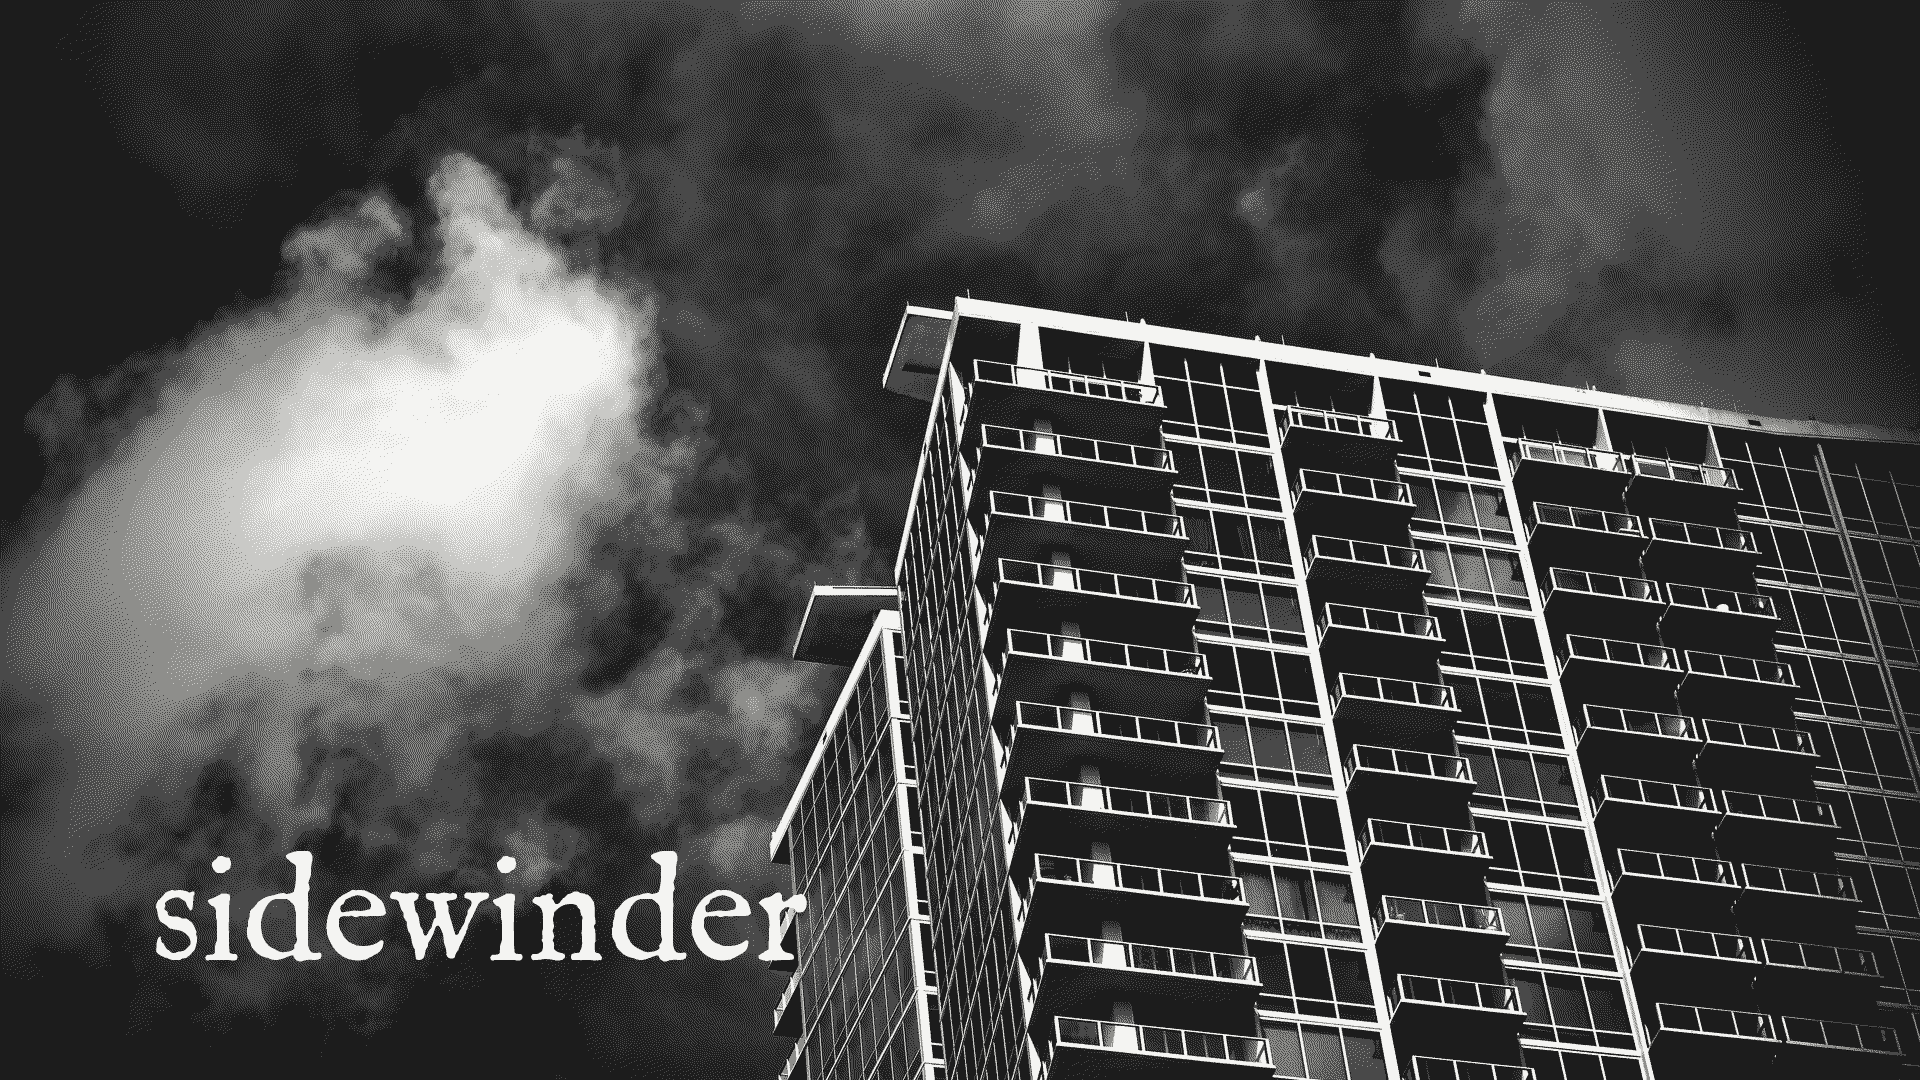
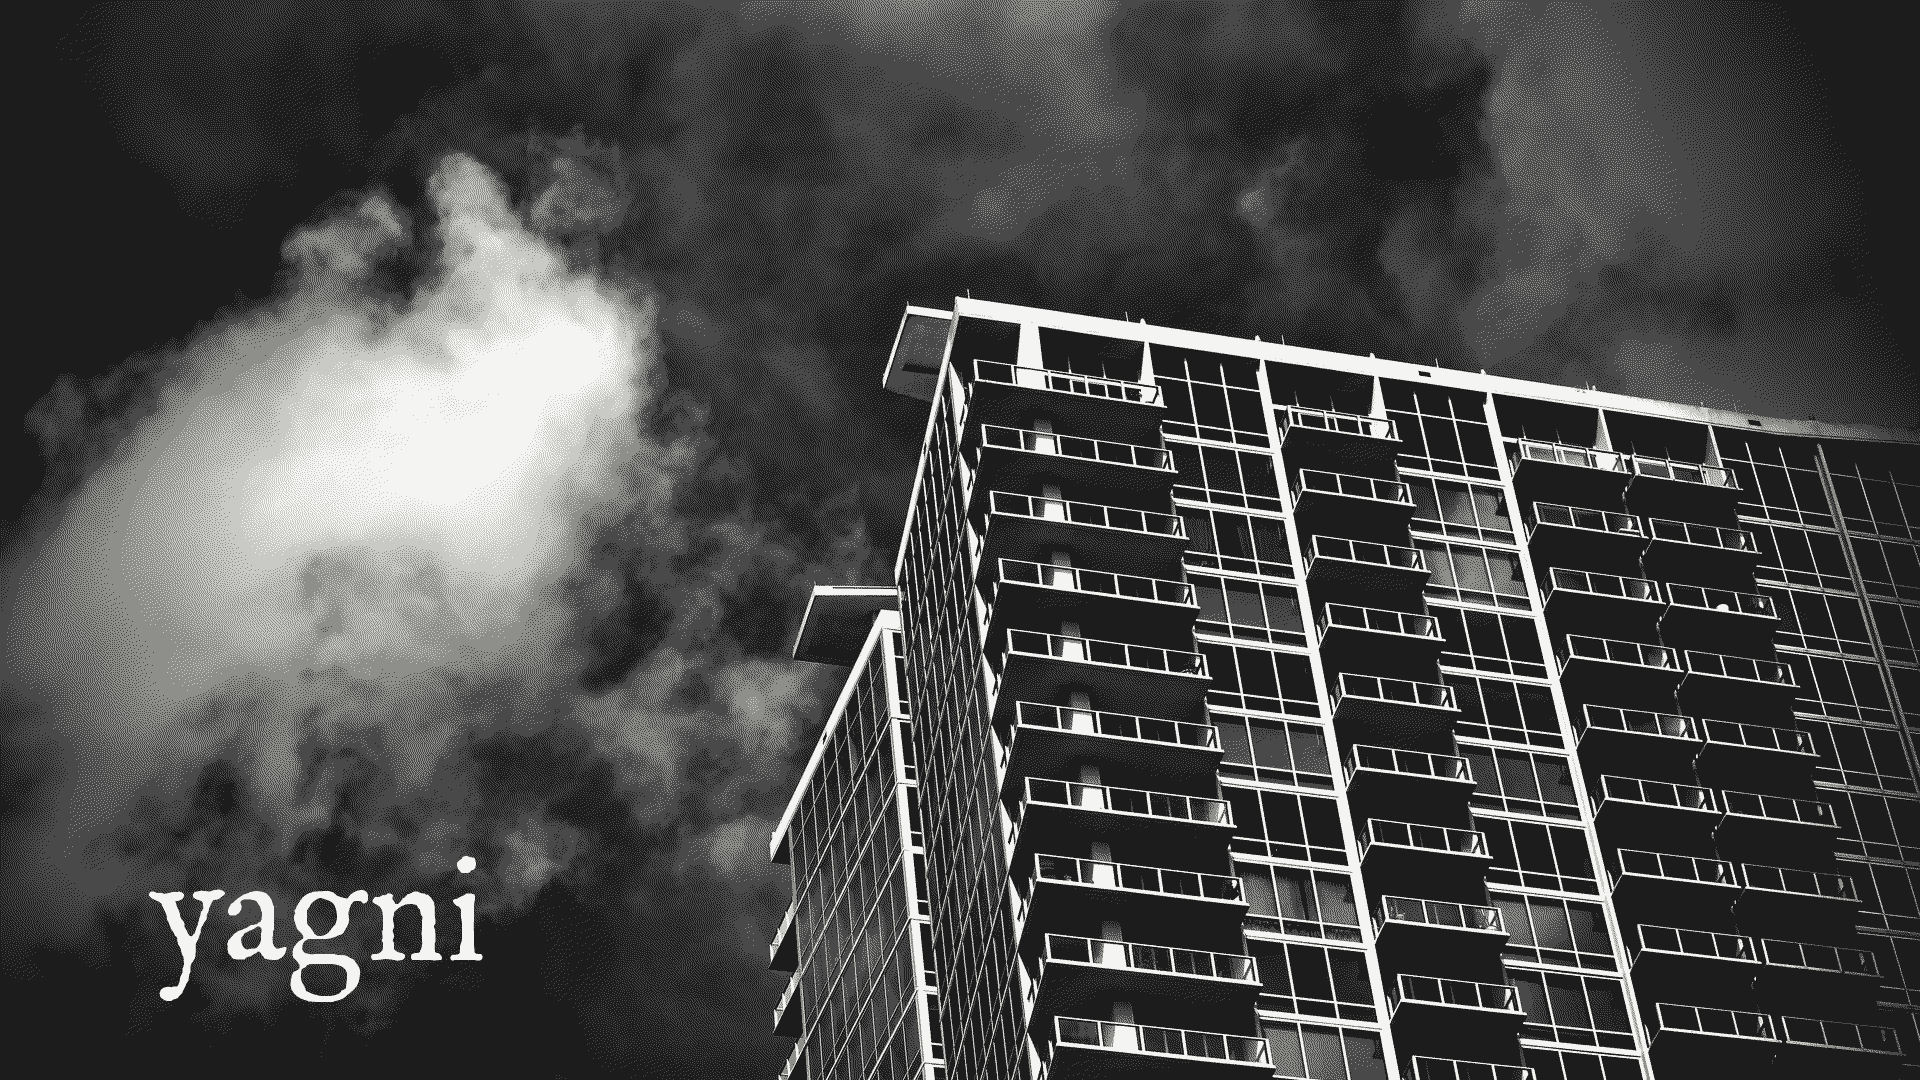
yagni

Changed region(s): [[0.0625, 0.7944, 0.4375, 0.9472]]

diff --git a/pkgs/luwm/luwm.c b/pkgs/luwm/luwm.c
@@ -1,4 +1,4 @@
-/* deadeye: tiny swc wm */
+/* luwm: tiny swc wm */
 #define _POSIX_C_SOURCE 200809L
 #include <signal.h>
 #include <stdlib.h>
@@ -19,7 +19,7 @@ static void run(A), end(A), quit(A), show(A), mv(A), cyc(A), fs(A);
 /* config */
 #define MOD SWC_MOD_LOGO
 #define SH SWC_MOD_SHIFT
-static unsigned BW = 3, BF = 0xc9c9c6, BU = 0x494949; /* DEADEYE_* overrides */
+static unsigned BW = 3, BF = 0xc9c9c6, BU = 0x494949; /* LUWM_* overrides */
 #define W(k, n) {MOD, k, show, {.i = n}}, {MOD | SH, k, mv, {.i = n}}
 static const K keys[] = {
 	{MOD, XKB_KEY_Return, run, {.s = "eval exec ${TERMINAL:-havoc}"}},
@@ -123,7 +123,7 @@ static void drag(void *d, uint32_t t, uint32_t b, uint32_t st) {
 }
 static void ub(void *d, uint32_t t, uint32_t v, uint32_t st) { /* user keys script */
 	char s[192], i = (intptr_t)d;
-	snprintf(s, sizeof s, "k=${DEADEYE_KEYS:-$HOME/.config/deadeye/keys}; [ -f \"$k\" ] || k=/share/deadeye/keys; exec sh \"$k\" %s%c", i & 1 ? "S-" : "", KS[i / 2]);
+	snprintf(s, sizeof s, "k=${LUWM_KEYS:-$HOME/.config/luwm/keys}; [ -f \"$k\" ] || k=/share/luwm/keys; exec sh \"$k\" %s%c", i & 1 ? "S-" : "", KS[i / 2]);
 	if (st) run((A){.s = s});
 }
 static void flip(void *d, uint32_t t, uint32_t b, uint32_t st) { C *c; if (st && (c = under())) back(c); }
@@ -168,7 +168,7 @@ int main(void) {
 	if (!(dpy = wl_display_create()) || !(s = wl_display_add_socket_auto(dpy))) return 1;
 	setenv("WAYLAND_DISPLAY", s, 1);
 	if (!swc_initialize(dpy, 0, &mgr)) return 1;
-	BW = ev("DEADEYE_BORDER", BW, 10), BF = ev("DEADEYE_FOCUS", BF, 16) | 0xff000000, BU = ev("DEADEYE_UNFOCUS", BU, 16) | 0xff000000;
+	BW = ev("LUWM_BORDER", BW, 10), BF = ev("LUWM_FOCUS", BF, 16) | 0xff000000, BU = ev("LUWM_UNFOCUS", BU, 16) | 0xff000000;
 	for (int i = 0; i < N(keys); i++)
 		swc_add_binding(SWC_BINDING_KEY, keys[i].m, keys[i].k, key, (void *)(keys + i));
 	for (int i = 0; i < 72; i++) /* after builtins */

diff --git a/pkgs/hello/hello.c b/pkgs/hello/hello.c
@@ -1,2 +1,2 @@
 #include <unistd.h>
-int main(void) { return write(1, "hello from sidewinder\n", 22) != 22; }
+int main(void) { return write(1, "hello from yagni\n", 17) != 17; }

diff --git a/README.md b/README.md
@@ -1,4 +1,4 @@
-# sidewinder/linux
+# yagni/linux
 
 ```
     ___
@@ -16,13 +16,13 @@ no dynamic loader, no /lib, no /sbin. 1000% [gnu](https://www.gnu.org) free.
 - 14MB base, 7MB download, <12MB ram idle
 - a 37MB iso that installs with no internet
 - openbsd's doas and ksh, freebsd's bc, netbsd's curses, apple's lzfse
-- cook, a <180 line package manager
-- deadeye, a <180 line wayland compositor on swc
+- jits, a <180 line package manager
+- luwm, a <180 line wayland compositor on swc
 - package something in a few minutes
 
 it has only ever booted in [qemu](https://www.qemu.org).
 
-website, install guide and manual: https://sidewinder-linux.codeberg.page
+website, install guide and manual: https://yagni-linux.codeberg.page
 
 
 ## layout
@@ -30,8 +30,8 @@ website, install guide and manual: https://sidewinder-linux.codeberg.page
 ```
 pkgs/        one directory per package
 superlab     builds pkgs/ into repo/
-mkrootfs     builds sidewinder.tar.gz out of repo/
-mkiso        builds sidewinder.iso: the kernel is BOOTX64.EFI, the live system is inside it
+mkrootfs     builds yagni.tar.gz out of repo/
+mkiso        builds yagni.iso: the kernel is BOOTX64.EFI, the live system is inside it
 iso/         the live system's inittab, motd and boot script
 mksrc        collects the source of everything in repo/
 ```
